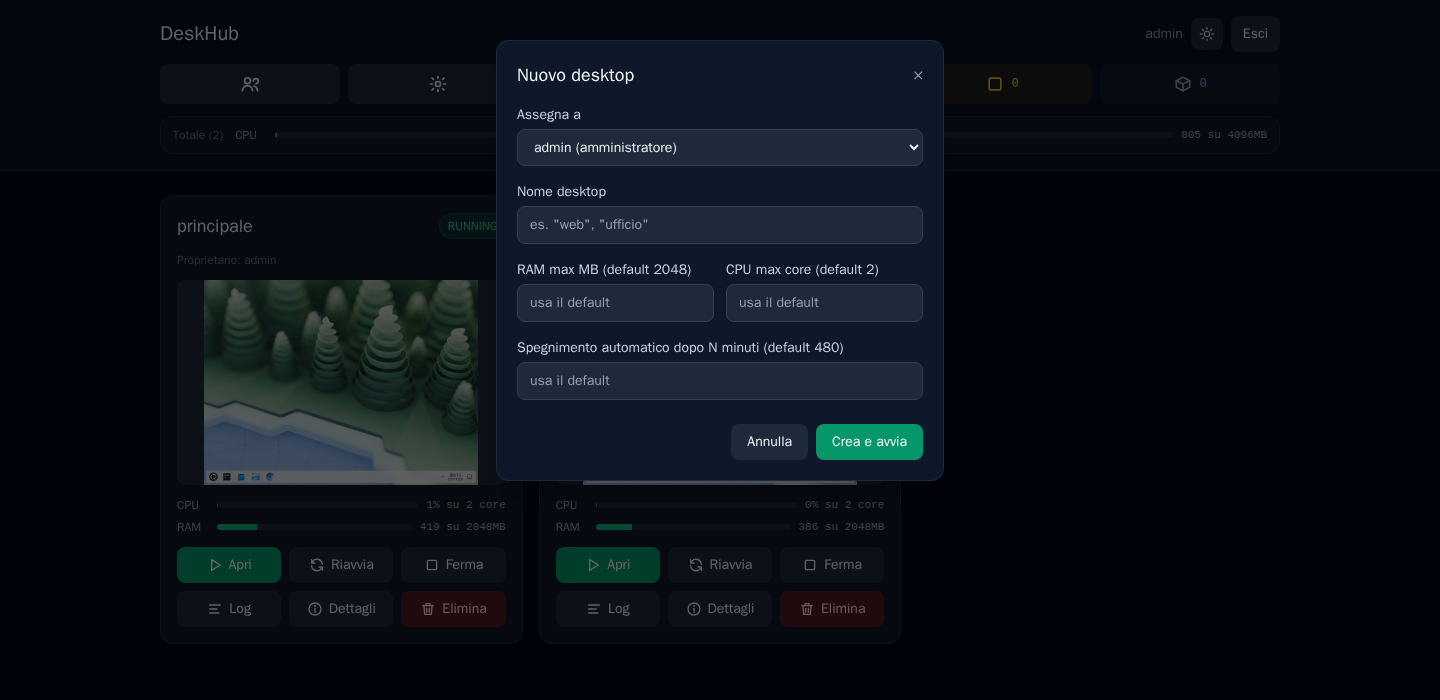
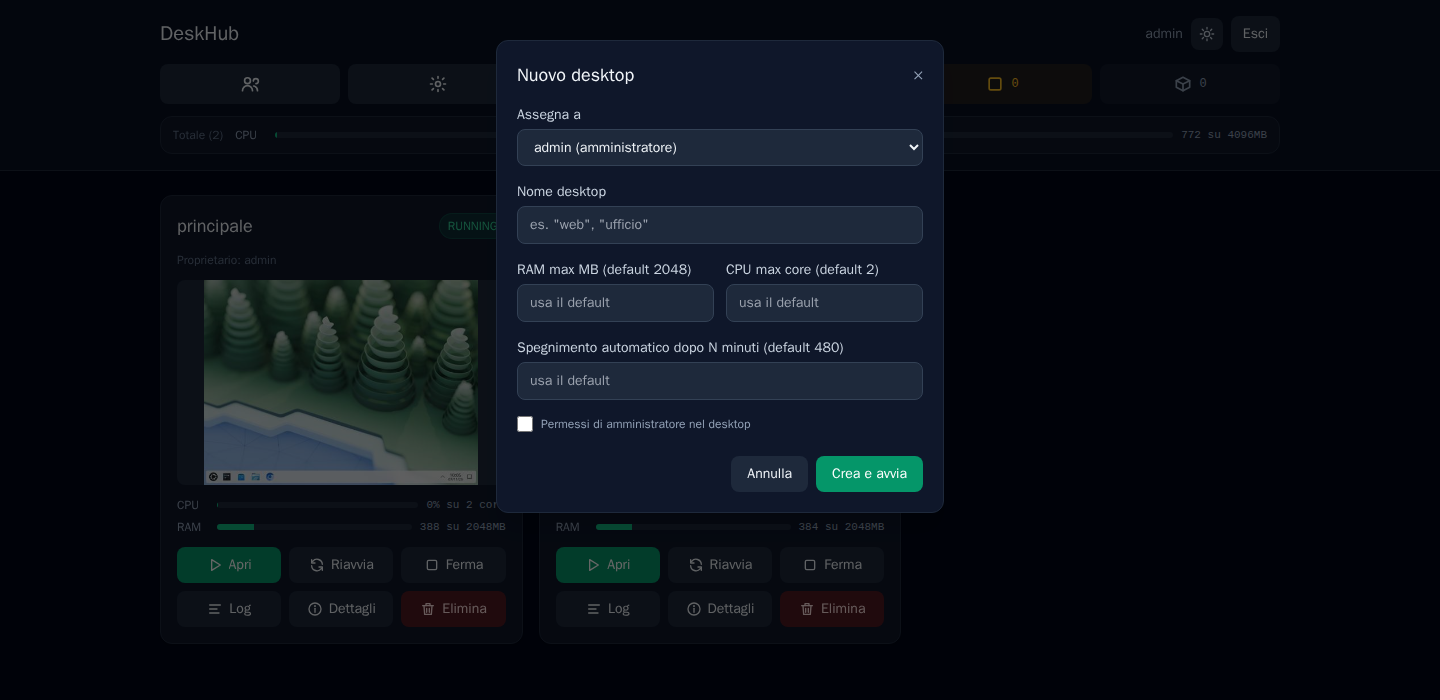
Permessi di amministratore scelti anche alla creazione del desktop, col default delle impostazioni

Changed region(s): [[0.3438, 0.6, 0.6562, 0.75], [0.3438, 0.6, 0.5312, 0.63]]

diff --git a/frontend/src/components/CreateDesktopModal.jsx b/frontend/src/components/CreateDesktopModal.jsx
@@ -25,6 +25,7 @@ export default function CreateDesktopModal({ onClose, onSubmit }) {
   const [maxRamMb, setMaxRamMb] = useState("");
   const [maxCpus, setMaxCpus] = useState("");
   const [idleTimeoutMinutes, setIdleTimeoutMinutes] = useState("");
+  const [sudo, setSudo] = useState(false);
   const [error, setError] = useState("");
 
   useEffect(() => {
@@ -41,7 +42,10 @@ export default function CreateDesktopModal({ onClose, onSubmit }) {
       .catch(() => {});
     api
       .getSettings()
-      .then(setDefaults)
+      .then((s) => {
+        setDefaults(s);
+        setSudo(Boolean(s.default_sudo));
+      })
       .catch(() => {});
   }, []);
 
@@ -76,6 +80,7 @@ export default function CreateDesktopModal({ onClose, onSubmit }) {
       max_ram_mb: maxRamMb === "" ? null : Number(maxRamMb),
       max_cpus: maxCpus === "" ? null : Number(maxCpus),
       idle_timeout_minutes: idleTimeoutMinutes === "" ? null : Number(idleTimeoutMinutes),
+      sudo_enabled: sudo,
     });
   }
 
@@ -159,6 +164,16 @@ export default function CreateDesktopModal({ onClose, onSubmit }) {
             className={inputClass}
           />
         </Field>
+
+        <label className="flex items-center gap-2 text-xs text-slate-500 dark:text-slate-400">
+          <input
+            type="checkbox"
+            checked={sudo}
+            onChange={(e) => setSudo(e.target.checked)}
+            className="h-4 w-4 accent-emerald-600"
+          />
+          Permessi di amministratore nel desktop
+        </label>
 
         {error && <p className="text-sm text-red-400">{error}</p>}
 

diff --git a/backend/app/routers/desktops.py b/backend/app/routers/desktops.py
@@ -160,7 +160,9 @@ async def create_desktop(payload: CreateDesktopRequest, admin: dict = Depends(re
     desktops_store.set_owner(target_id, payload.owner)
     desktops_store.set_name(target_id, name)
     desktops_store.set_limits(target_id, max_ram_mb, max_cpus, idle_timeout_minutes)
-    if payload.reuse_id is None:
+    if payload.sudo_enabled is not None:
+        desktops_store.set_sudo(target_id, payload.sudo_enabled)
+    elif payload.reuse_id is None:
         # Un desktop riusato tiene il sudo che aveva.
         desktops_store.set_sudo(target_id, defaults["default_sudo"])
 

diff --git a/backend/app/schemas.py b/backend/app/schemas.py
@@ -65,6 +65,9 @@ class CreateDesktopRequest(BaseModel):
     # come max_ram_mb/max_cpus sopra. 0 = spegnimento automatico disabilitato
     # per questo desktop.
     idle_timeout_minutes: Optional[int] = Field(default=None, ge=0, le=1440)
+    # None = default globale (Settings) per un desktop nuovo, sudo di prima
+    # per una configurazione riusata.
+    sudo_enabled: Optional[bool] = None
 
 
 class DesktopSudoPayload(BaseModel):

diff --git a/README.md b/README.md
@@ -164,8 +164,9 @@ eventualmente un limite RAM/CPU o uno spegnimento automatico diversi dal
 default globale. L'identificativo
 interno e la cartella di configurazione diventano `<proprietario>-<nome>`
 (es. `mario-web`), con un suffisso numerico in caso di doppioni
-(`mario-web-2`, ...). Sudo nel desktop segue il default delle impostazioni
-(⚙) e si cambia poi da "Dettagli".
+(`mario-web-2`, ...). La casella "Permessi di amministratore nel desktop"
+(sudo) parte dal default delle impostazioni (⚙); dopo si cambia da
+"Dettagli".
 
 </details>
 
@@ -235,8 +236,8 @@ interno e la cartella di configurazione diventano `<proprietario>-<nome>`
   desktop è un utente normale: niente
   `sudo`, e fuori dal gruppo `sudo`, quindi niente root nemmeno da `pkexec` o
   dalle installazioni grafiche. Il default per i desktop nuovi è nelle
-  impostazioni (⚙), spento di fabbrica; per il singolo desktop si cambia da
-  "Dettagli" (vale subito, anche a desktop acceso; il manager lo riapplica a
+  impostazioni (⚙), spento di fabbrica; per il singolo desktop si sceglie
+  alla creazione e si cambia da "Dettagli" (vale subito, anche a desktop acceso; il manager lo riapplica a
   ogni avvio). I programmi per tutti vanno
   nell'immagine dei desktop (`webtop-image/`).
 - **Anteprime.** <a id="anteprime"></a>Ogni card mostra lo schermo del
@@ -247,7 +248,9 @@ interno e la cartella di configurazione diventano `<proprietario>-<nome>`
   pulsante "Apri". Quando la scheda del manager non è in
   primo piano le anteprime si fermano. La miniatura la fa il desktop stesso con la cattura di
   pixelflux (il motore di Selkies, variabile `PIXELFLUX_CU`), e il manager
-  la prende con `docker exec`, non dalla rete. Quel servizio (porta 5000 nel
+  la prende con `docker exec`, non dalla rete, per sicurezza: prenderla via
+  rete vorrebbe dire collegare il manager alla rete di ogni desktop, e da un
+  desktop si arriverebbe al manager. Quel servizio (porta 5000 nel
   container) permette anche di comandare mouse e tastiera: lo raggiungono
   solo il desktop stesso e Traefik, che non ha nessuna rotta verso quella
   porta. La miniatura la vedono il proprietario e l'admin; il manager la
